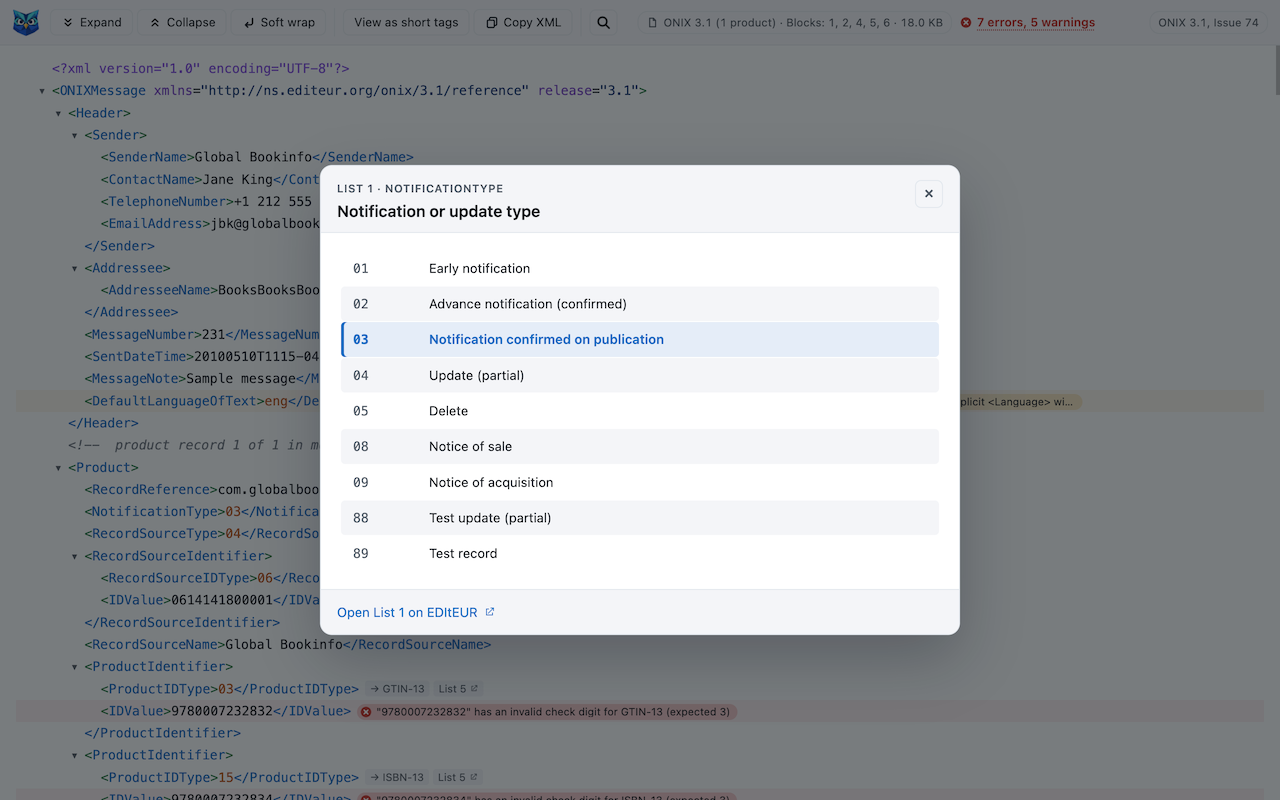
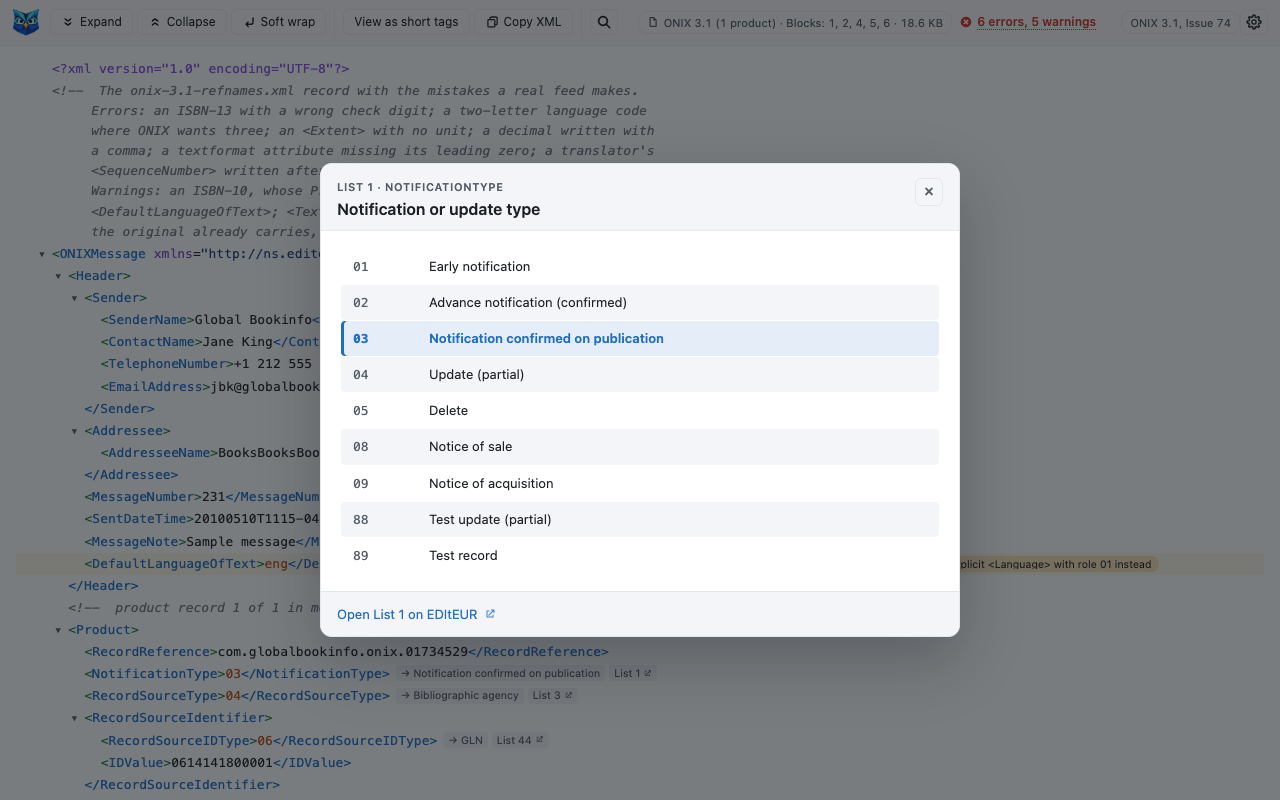
Take the store screenshots with a script, in Chrome and Firefox

diff --git a/tools/screenshots.js b/tools/screenshots.js
@@ -1,0 +1,170 @@
+// tools/screenshots.js — the store screenshots, taken by a headless browser.
+//
+//   npm run screenshots            # Chrome  → Screenshots/Chrome/
+//   npm run screenshots:firefox    # Firefox → Screenshots/Firefox/
+//   FIREFOX_BIN=/path/to/firefox node tools/screenshots.js firefox
+//
+// Three 1280×800 captures of the viewer over Onix/onix-3.1-refnames-defects.xml,
+// in the light colour scheme: Main.png is the tree as it loads, CodeList.png
+// the code-list popup opened from the <NotificationType> row, Violations.png
+// the findings list opened from the verdict pill. The browser is launched as
+// tests/browser/run.js and tests/browser/firefox.js launch it — the extension
+// loaded from Resources/, the sample served as application/xml — so what is
+// captured is what a reader sees. Nothing of the browser itself is in frame,
+// which is why the Chrome and Firefox sets differ only in text rendering.
+//
+// The site copies in site/ are held to Screenshots/Chrome/ by a test, so
+// after re-taking the Chrome set copy the three files there too.
+//
+// On macOS 27 the Firefox side needs the terminal it runs from to have Full
+// Disk Access, or Firefox exits with "Could not find profile folder." —
+// see FIREFOX.md.
+
+const fs = require("fs");
+const http = require("http");
+const path = require("path");
+const puppeteer = require("puppeteer-core");
+
+const ROOT = path.join(__dirname, "..");
+const RESOURCES = path.join(ROOT, "Resources");
+const SAMPLE = path.join(ROOT, "Onix", "onix-3.1-refnames-defects.xml");
+const FIREFOX = process.env.FIREFOX_BIN || "/Applications/Firefox.app/Contents/MacOS/firefox";
+
+const WIDTH = 1280;
+const HEIGHT = 800;
+
+const BROWSER = process.argv[2] || "chrome";
+if (!["chrome", "firefox"].includes(BROWSER)) {
+  console.error("usage: node tools/screenshots.js [chrome|firefox]");
+  process.exit(2);
+}
+const OUT = path.join(ROOT, "Screenshots", BROWSER === "chrome" ? "Chrome" : "Firefox");
+
+// ---- the sample, served as application/xml ---------------------------------
+
+function serve() {
+  const body = fs.readFileSync(SAMPLE);
+  const server = http.createServer((request, response) => {
+    response.writeHead(200, { "Content-Type": "application/xml; charset=utf-8" });
+    response.end(body);
+  });
+  return new Promise((resolve) => {
+    server.listen(0, "127.0.0.1", () => resolve({
+      server,
+      url: `http://127.0.0.1:${server.address().port}/${path.basename(SAMPLE)}`,
+    }));
+  });
+}
+
+// ---- the browser, in the light scheme --------------------------------------
+
+// Chrome takes the colour scheme as a media emulation on the page. Firefox
+// has no such emulation over WebDriver BiDi, so it is a launch preference:
+// content-override 1 is "light" whatever the system theme says.
+async function launch() {
+  let browser;
+  if (BROWSER === "chrome") {
+    browser = await puppeteer.launch({
+      channel: "chrome",
+      headless: true,
+      enableExtensions: [RESOURCES],
+      args: ["--no-sandbox"],
+    });
+  } else {
+    browser = await puppeteer.launch({
+      browser: "firefox",
+      executablePath: FIREFOX,
+      headless: true,
+      extraPrefsFirefox: {
+        "ui.systemUsesDarkTheme": 0,
+        "layout.css.prefers-color-scheme.content-override": 1,
+      },
+    });
+    await browser.installExtension(RESOURCES);
+  }
+  return browser;
+}
+
+async function open(browser, url) {
+  const page = await browser.newPage();
+  page.on("pageerror", (error) => { throw error; });
+  await page.setViewport({ width: WIDTH, height: HEIGHT, deviceScaleFactor: 1 });
+  if (BROWSER === "chrome") {
+    await page.emulateMediaFeatures([{ name: "prefers-color-scheme", value: "light" }]);
+  }
+  await page.goto(url, { waitUntil: "load" });
+  await page.waitForSelector("#oxv-root .px-row", { timeout: 20000 });
+  await page.waitForFunction(
+    () => !document.getElementById("oxv-validation").textContent.includes("Validating"),
+    { timeout: 20000 });
+  await page.evaluate(() => document.fonts.ready);
+  return page;
+}
+
+// ---- the three states --------------------------------------------------------
+
+// The pointer rests on the scrollbar between shots: anywhere over the tree
+// would light a row's hover tint and reveal its gutter button.
+function parkPointer(page) {
+  return page.mouse.move(WIDTH - 5, HEIGHT / 2);
+}
+
+async function capture(page, name) {
+  await parkPointer(page);
+  await page.evaluate(() => window.scrollTo(0, 0));
+  const file = path.join(OUT, `${name}.png`);
+  await page.screenshot({ path: file, type: "png" });
+  console.log(`  wrote ${path.relative(ROOT, file)}`);
+}
+
+// A real click rather than element.click(): the popups move focus to their
+// close button, and a focus that follows a pointer press draws no ring.
+async function click(page, handle) {
+  await handle.click();
+  await parkPointer(page);
+}
+
+async function openCodeList(page) {
+  const link = await page.evaluateHandle(() => {
+    const rows = [...document.querySelectorAll("#oxv-root .px-row")];
+    const row = rows.find((r) => r.querySelector(".px-tag-name")?.textContent === "NotificationType");
+    return row.querySelector(".px-codelist-link");
+  });
+  await click(page, link);
+  await page.waitForSelector(".px-popup-overlay:not([hidden]) #px-popup-title");
+}
+
+async function closeCodeList(page) {
+  await page.keyboard.press("Escape");
+  await page.waitForFunction(() => !document.querySelector(".px-popup-overlay:not([hidden])"));
+}
+
+async function openFindings(page) {
+  await click(page, await page.$("#oxv-validation"));
+  await page.waitForSelector("#oxv-findings:not([hidden])");
+}
+
+// ---- main ---------------------------------------------------------------------
+
+(async () => {
+  fs.mkdirSync(OUT, { recursive: true });
+  const served = await serve();
+  const browser = await launch();
+  try {
+    const page = await open(browser, served.url);
+    console.log(`${BROWSER}: ${await page.$eval("#oxv-meta", (el) => el.textContent.trim())}, ` +
+      `${await page.$eval("#oxv-validation", (el) => el.textContent.trim())}`);
+    await capture(page, "Main");
+    await openCodeList(page);
+    await capture(page, "CodeList");
+    await closeCodeList(page);
+    await openFindings(page);
+    await capture(page, "Violations");
+  } finally {
+    await browser.close();
+    served.server.close();
+  }
+})().catch((error) => {
+  console.error(error);
+  process.exit(1);
+});

diff --git a/tests/cases/30-documentation.test.js b/tests/cases/30-documentation.test.js
@@ -35,9 +35,9 @@ describe("Documentation", () => {
 
   test("site/'s screenshots and icon are the committed ones, byte for byte", () => {
     const pairs = {
-      "site/Main.png": "Screenshots/Main.png",
-      "site/CodeList.png": "Screenshots/CodeList.png",
-      "site/Violations.png": "Screenshots/Violations.png",
+      "site/Main.png": "Screenshots/Chrome/Main.png",
+      "site/CodeList.png": "Screenshots/Chrome/CodeList.png",
+      "site/Violations.png": "Screenshots/Chrome/Violations.png",
       "site/icon-128.png": "Resources/icons/icon-128.png",
     };
     for (const [copy, source] of Object.entries(pairs)) {

diff --git a/eslint.config.js b/eslint.config.js
@@ -24,10 +24,10 @@ module.exports = [
     files: ["tools/**/*.js", "tests/**/*.js", "eslint.config.js"],
     languageOptions: { sourceType: "commonjs", globals: globals.node },
   },
-  // The browser test runs in node but hands callbacks to a page, so it
-  // speaks both.
+  // The browser tests and the screenshot script run in node but hand
+  // callbacks to a page, so they speak both.
   {
-    files: ["tests/browser/**/*.js"],
+    files: ["tests/browser/**/*.js", "tools/screenshots.js"],
     languageOptions: { globals: { ...globals.node, ...globals.browser } },
   },
 ];

diff --git a/tests/browser/firefox.js b/tests/browser/firefox.js
@@ -11,6 +11,11 @@
 // does to a root swapped mid-parse, and whether version_name survives
 // runtime.getManifest() — and the next change to content.js depends on the
 // answers.
+//
+// On macOS 27 the terminal this runs from needs Full Disk Access, or Firefox
+// exits with "Could not find profile folder." before puppeteer hears from
+// it: the OS protects ~/Library/Application Support/Firefox, and a Firefox
+// spawned from a shell has only the shell's access. FIREFOX.md has the rest.
 
 const fs = require("fs");
 const http = require("http");

diff --git a/FIREFOX.md b/FIREFOX.md
@@ -38,6 +38,7 @@ behind it, or Gecko's source, not from memory.
 | Firefox MV3 content scripts are **subject to the same CORS policy as the page** (since Firefox 101), so the same-origin re-fetch of the page's own URL behaves as in Chrome. Relative URLs are not resolved against the page in Firefox; `content.js` uses the absolute `document.location.href`. | MDN Chrome incompatibilities |
 | Web-accessible resources are served at `moz-extension://<per-install UUID>/…`. `use_dynamic_url` is unsupported; `resources` and `matches` are. Nothing in the bundle depends on a fixed extension ID. | MDN `web_accessible_resources` |
 | `<all_urls>` includes `file://` in Firefox and there is no separate "allow access to file URLs" toggle, so local files should work out of the box — via the DOM fallback, since a `file:` fetch fails there as in Chrome. | MDN match patterns |
+| On **macOS 27** a Firefox started from a shell exits at once with `Could not find profile folder.`, `--profile` or not: the OS puts `~/Library/Application Support/Firefox` under TCC protection, the shell is the responsible process and has no grant, and Gecko still reads `profiles.ini` there for bookkeeping even when the profile is elsewhere. So `npm run test:firefox` and `npm run screenshots:firefox` need the terminal (or IDE) they run from to have **Full Disk Access** in System Settings → Privacy & Security; GitHub's Ubuntu runners are unaffected. The alternative, launching through LaunchServices with `open -n -g -a Firefox --args …`, gives Firefox its own permissions but leaves puppeteer without the child process it reads the WebDriver endpoint from. `XRE_PROFILE_PATH` and `MOZ_LEGACY_PROFILES` do not help. Seen here with Firefox 156.0.1 on 2026-09-26. | playwright#42768, chenglou/pretext#333, a run by hand |
 | Chrome 148 added the `browser` namespace. `typeof browser !== "undefined"` therefore no longer means "this is Firefox"; test `runtime.getURL("").startsWith("moz-extension:")` if a Firefox-only path is ever needed. | MDN Chrome incompatibilities |
 
 ## What the branch changes

diff --git a/CWS_LISTING.md b/CWS_LISTING.md
@@ -157,13 +157,14 @@ group in the dashboard under "Distribution" once the org is connected.
 | Store icon | 128 × 128 PNG | `Resources/icons/icon-128.png`, baked by `tools/render-icons.sh` |
 | Small promo tile | 440 × 280 | rendered from `promo-tile.svg` |
 | Marquee promo tile | 1400 × 560 | rendered from `marquee.svg` |
-| Screenshot(s) | 1280 × 800 | **`Screenshots/`** — committed, upload as-is |
+| Screenshot(s) | 1280 × 800 | **`Screenshots/Chrome/`** — committed, upload as-is |
 
-**Screenshots live in `Screenshots/` and are version-controlled**, already at
-1280 × 800, so they upload without a resize step. Re-take them there whenever
-the UI changes and commit the result; that is the record of what the listing
-shows. `Screenshots/Main.png` is the tree, `Screenshots/CodeList.png` the
-code-list popup.
+**Screenshots live in `Screenshots/Chrome/` and are version-controlled**,
+already at 1280 × 800, so they upload without a resize step. `npm run
+screenshots` re-takes them in a headless Chrome whenever the UI changes;
+commit the result, which is the record of what the listing shows. `Main.png`
+is the tree, `CodeList.png` the code-list popup, `Violations.png` the
+findings list. `Screenshots/Firefox/` is the same set from Firefox, for AMO.
 
 The icon and the two promo tiles are **generated**, so they are not committed —
 `dist/` is gitignored in full. Rebuild them into `dist/listing/` when you need

diff --git a/CHANGELOG.md b/CHANGELOG.md
@@ -11,6 +11,12 @@ the main branch.
   came from, and pushes; it refuses when the site's copy has edits of its
   own, and `--dry-run` previews.
 
+- **A script that takes the store screenshots.** `tools/screenshots.js`
+  captures the tree, the code-list popup and the findings list at 1280×800
+  in the light scheme, in a headless Chrome (`npm run screenshots`, into
+  `Screenshots/Chrome/`) or Firefox (`npm run screenshots:firefox`, into
+  `Screenshots/Firefox/`).
+
 - **An MIT licence.** `LICENSE` at the repo root and `"license": "MIT"` in
   `package.json`.
 
